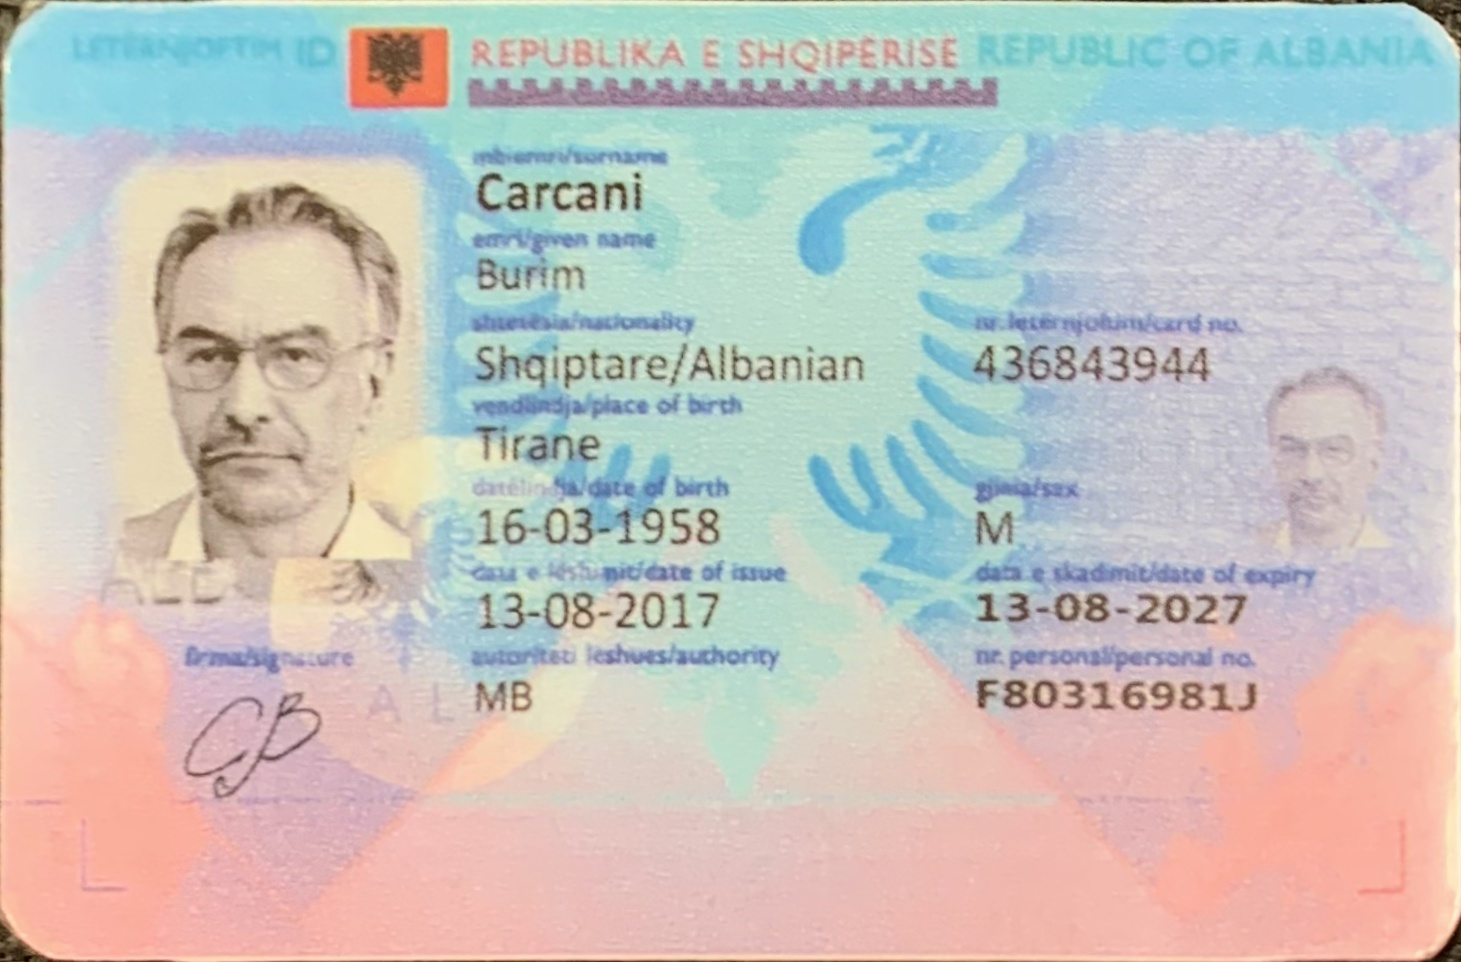
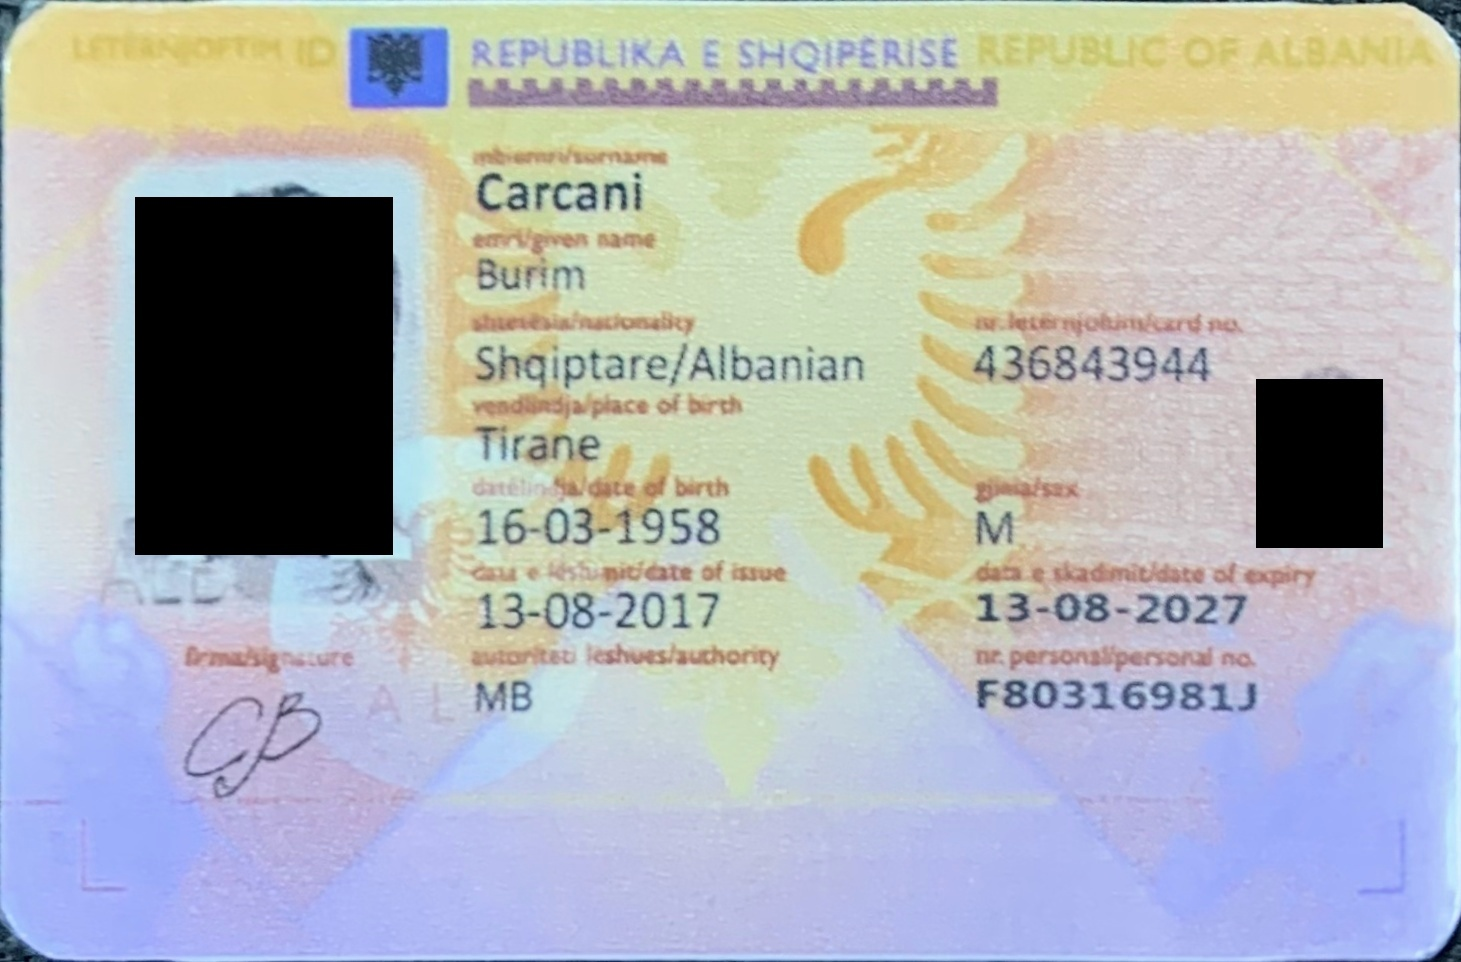
refactor: replace templates with pre face-masked ones

diff --git a/training/detection.py b/training/detection.py
@@ -107,14 +107,17 @@ def remove_face(model: 'YOLO', card: np.ndarray):
     return apply_mask(card, mask)
 
 
-def load_templates(template_dir, face_model, card_size=CARD_SIZE):
-    """Load and mask template images; list indices are the classification labels.
+def load_templates(
+    template_dir: str | Path, card_size: tuple[int, int] = CARD_SIZE,
+) -> list[np.ndarray]:
+    """Load pre-masked templates as RGB and resize for comparison.
 
+    Template faces must already be blacked out; no face model is run here.
     Preserve directory listing order to retain the existing label mapping.
     """
     paths = (Path(template_dir) / name for name in os.listdir(template_dir))
     return [
-        remove_face(face_model, load_image(path, card_size))
+        load_image(path, card_size)
         for path in paths
         if path.is_file() and path.suffix.lower() in IMAGE_EXTENSIONS
     ]
@@ -204,7 +207,7 @@ def main():
 
     detect_model = YOLO(str(ROOT / 'model' / 'yolov8s-detect.pt')).eval()
     face_model = YOLO(str(ROOT / 'model' / 'yolov8n-face.pt')).eval()
-    templates = load_templates(ROOT / 'template_samples', face_model)
+    templates = load_templates(ROOT / 'template_samples')
     image = load_image(ROOT / 'test_images' / 'image6.png', CARD_SIZE)
     card, label = detect_card(detect_model, image, templates, face_model)
     print('Detected card label:', label)

diff --git a/training/test_detection.py b/training/test_detection.py
@@ -156,10 +156,8 @@ class DetectionTests(unittest.TestCase):
             for name, value in [('2.png', 20), ('1.png', 10)]:
                 Image.new('RGB', (4, 4), (value, value, value)).save(root / name)
             (root / 'notes.txt').write_text('not a template')
-            face_model = Mock()
-            face_model.predict.return_value = [SimpleNamespace(boxes=[])]
             with patch.object(detection.os, 'listdir', return_value=['2.png', 'notes.txt', '1.png']):
-                templates = detection.load_templates(root, face_model, (4, 4))
+                templates = detection.load_templates(root, card_size=(4, 4))
         self.assertEqual([int(image[0, 0, 0]) for image in templates], [20, 10])
 
 

diff --git a/training/utils/processing.py b/training/utils/processing.py
@@ -10,12 +10,15 @@ from itertools import combinations
 import cv2
 import numpy as np
 from PIL import Image
+from typing import Optional
 
 
-def load_image(image_path, image_size: tuple[int, int]):
-    """Load an RGB image and resize to (width, height)."""
+def load_image(image_path, image_size: Optional[tuple[int, int]] = None):
+    """Load an RGB image and resize to (width, height) if provided."""
     with Image.open(image_path) as image:
-        return np.array(image.convert('RGB').resize(image_size))
+        if image_size is not None:
+            return np.array(image.convert('RGB').resize(image_size))
+        return np.array(image.convert('RGB'))
 
 
 def order_points(pts):

diff --git a/training/README.md b/training/README.md
@@ -79,7 +79,7 @@ Ensure these assets are available:
 
 - `model/yolov8s-detect.pt`: trained card detector.
 - `model/yolov8n-face.pt`: separately supplied face detector; this repository does not train it.
-- Reference card images in `template_samples/`.
+- Reference card images with faces already blacked out in `template_samples/`.
 - The selected input image in `test_images/`.
 
 Run:
@@ -115,7 +115,7 @@ from training.detection import CARD_SIZE, ROOT, analyze_card, load_image, load_t
 # Initialize once and reuse for subsequent images.
 detector = YOLO(str(ROOT / 'model' / 'yolov8s-detect.pt')).eval()
 face_detector = YOLO(str(ROOT / 'model' / 'yolov8n-face.pt')).eval()
-templates = load_templates(ROOT / 'template_samples', face_detector)
+templates = load_templates(ROOT / 'template_samples')
 
 image = load_image(ROOT / 'test_images' / 'image6.png', CARD_SIZE)
 result = analyze_card(detector, image, templates, face_detector)
@@ -152,6 +152,13 @@ configuration errors still propagate instead of being labeled as no detection.
 All matching entry points default to `DEFAULT_MATCH_THRESHOLD = 0.8`.
 `classify(...)` retains its index-only return;
 `classify_with_score(...)` exposes the accepted index and best score together.
+
+Templates are loaded as RGB and resized to `CARD_SIZE`; loading does not run the
+face detector. `load_templates(template_dir, card_size=CARD_SIZE)` no longer
+takes a face model. The face model is still required to mask the extracted input
+card before comparison. Use the same black-mask convention for reference images.
+When saving RGB arrays with OpenCV, convert them with
+`cv2.cvtColor(image, cv2.COLOR_RGB2BGR)` before `cv2.imwrite` to preserve colors.
 
 ## Tests
 
